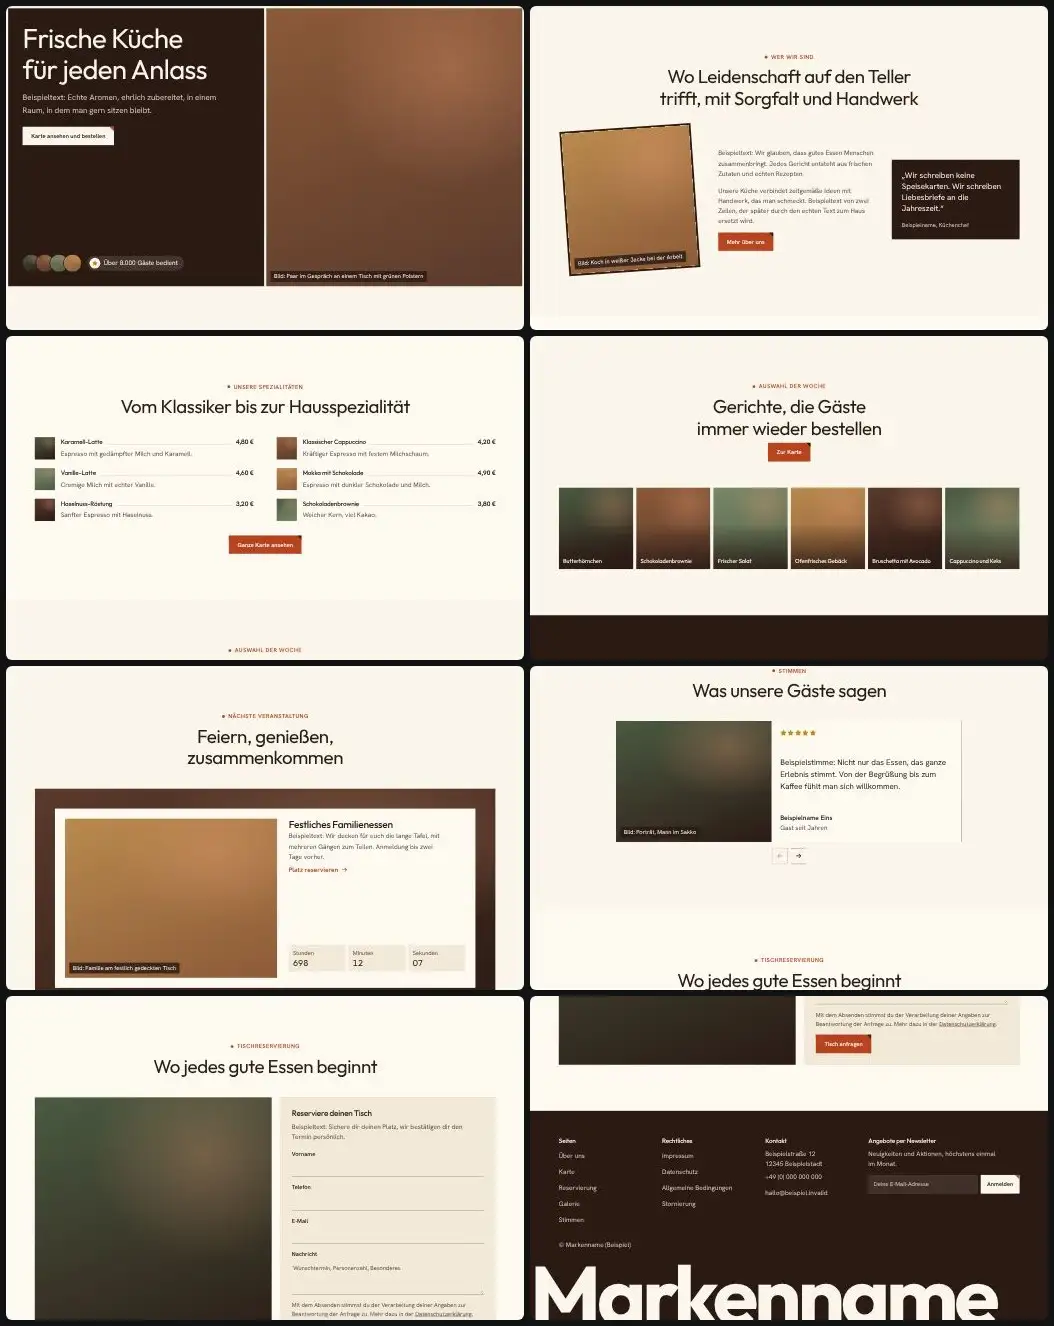
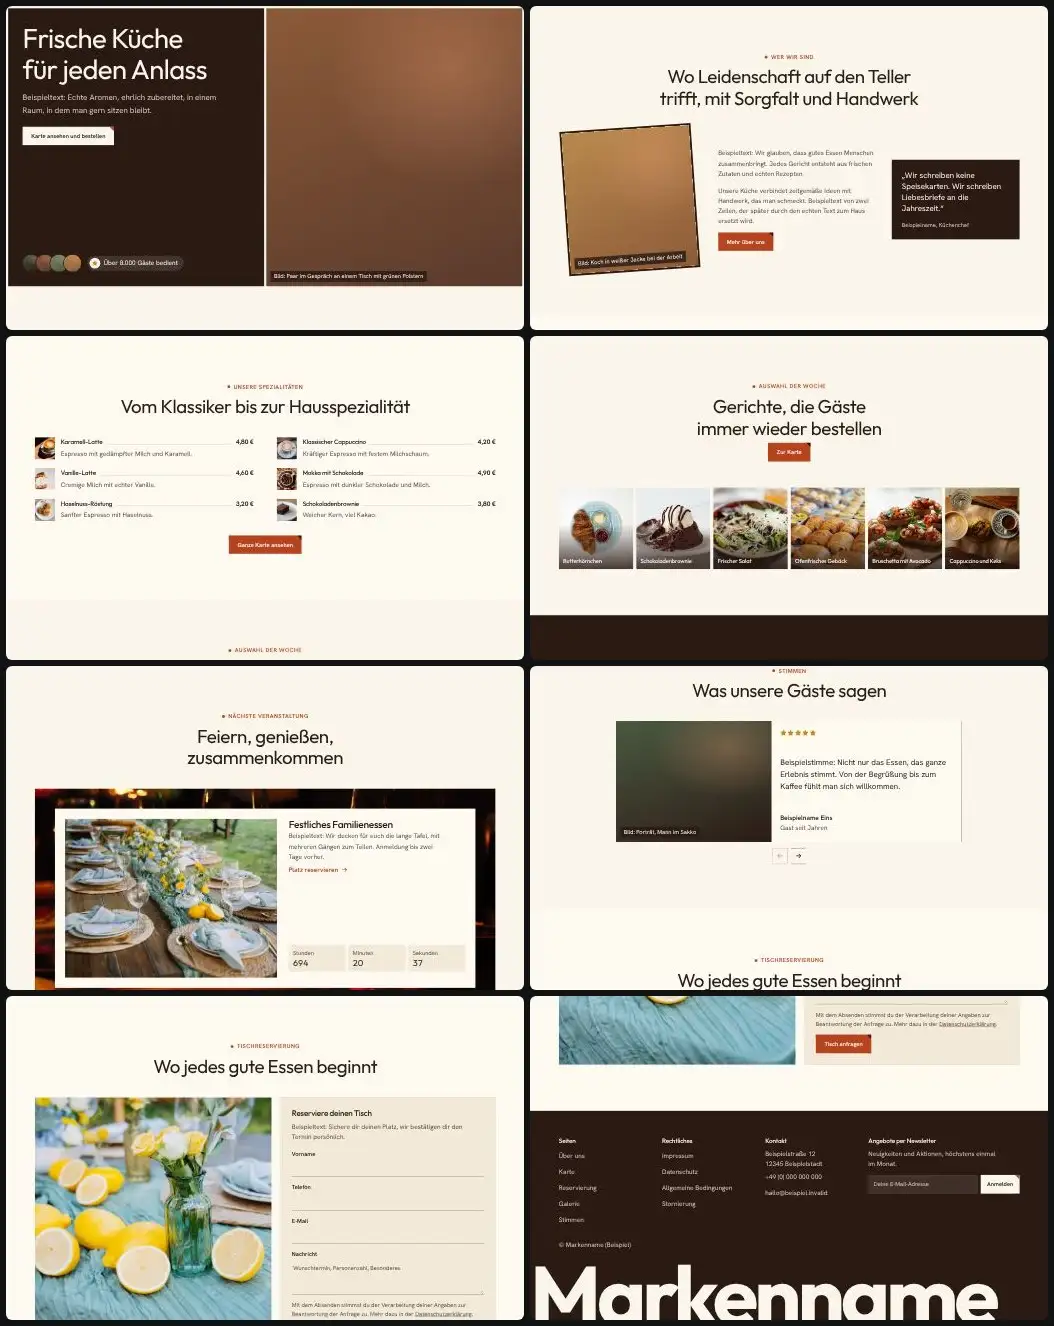
Bibliothek t35: Beispielfotos (Unsplash) eingebaut, Vorschaubilder neu erzeugt
Claude-Session: https://claude.ai/code/session_01DoGuL1bwF3ewggMgZ4Cpvd

diff --git a/skills/webdesign-conversion/assets/vorlagen/bibliothek/t35/index.html b/skills/webdesign-conversion/assets/vorlagen/bibliothek/t35/index.html
@@ -82,12 +82,12 @@
       <h2 id="h-karte" data-zeig>Vom Klassiker bis zur Hausspezialität</h2>
     </header>
     <ul class="posten-liste" data-staffel data-beispiel>
-      <li class="posten" data-zeig><div class="bild bild--a" data-platzhalter="Bild: Tasse mit Latte" aria-hidden="true"></div><div><div class="posten__kopf"><h3>Karamell-Latte</h3><span class="posten__linie" aria-hidden="true"></span><span class="posten__preis">4,80 €</span></div><p>Espresso mit gedämpfter Milch und Karamell.</p></div></li>
-      <li class="posten" data-zeig><div class="bild bild--b" data-platzhalter="Bild: Tasse Cappuccino" aria-hidden="true"></div><div><div class="posten__kopf"><h3>Klassischer Cappuccino</h3><span class="posten__linie" aria-hidden="true"></span><span class="posten__preis">4,20 €</span></div><p>Kräftiger Espresso mit festem Milchschaum.</p></div></li>
-      <li class="posten" data-zeig><div class="bild bild--c" data-platzhalter="Bild: Gebäck mit Vanille" aria-hidden="true"></div><div><div class="posten__kopf"><h3>Vanille-Latte</h3><span class="posten__linie" aria-hidden="true"></span><span class="posten__preis">4,60 €</span></div><p>Cremige Milch mit echter Vanille.</p></div></li>
-      <li class="posten" data-zeig><div class="bild bild--d" data-platzhalter="Bild: Schale mit Mokka" aria-hidden="true"></div><div><div class="posten__kopf"><h3>Mokka mit Schokolade</h3><span class="posten__linie" aria-hidden="true"></span><span class="posten__preis">4,90 €</span></div><p>Espresso mit dunkler Schokolade und Milch.</p></div></li>
-      <li class="posten" data-zeig><div class="bild bild--e" data-platzhalter="Bild: Kekse mit Nüssen" aria-hidden="true"></div><div><div class="posten__kopf"><h3>Haselnuss-Röstung</h3><span class="posten__linie" aria-hidden="true"></span><span class="posten__preis">3,20 €</span></div><p>Sanfter Espresso mit Haselnuss.</p></div></li>
-      <li class="posten" data-zeig><div class="bild bild--f" data-platzhalter="Bild: Brownie auf dem Teller" aria-hidden="true"></div><div><div class="posten__kopf"><h3>Schokoladenbrownie</h3><span class="posten__linie" aria-hidden="true"></span><span class="posten__preis">3,80 €</span></div><p>Weicher Kern, viel Kakao.</p></div></li>
+      <li class="posten" data-zeig><div class="bild bild--a"><img src="bilder/latte-art-auf-untertasse.webp" width="800" height="533" alt="Tasse Latte mit Schaummuster auf einer Untertasse" loading="lazy" decoding="async"></div><div><div class="posten__kopf"><h3>Karamell-Latte</h3><span class="posten__linie" aria-hidden="true"></span><span class="posten__preis">4,80 €</span></div><p>Espresso mit gedämpfter Milch und Karamell.</p></div></li>
+      <li class="posten" data-zeig><div class="bild bild--b"><img src="bilder/cappuccino-auf-holztisch.webp" width="800" height="533" alt="Cappuccino auf einer Untertasse auf einem Holztisch" loading="lazy" decoding="async"></div><div><div class="posten__kopf"><h3>Klassischer Cappuccino</h3><span class="posten__linie" aria-hidden="true"></span><span class="posten__preis">4,20 €</span></div><p>Kräftiger Espresso mit festem Milchschaum.</p></div></li>
+      <li class="posten" data-zeig><div class="bild bild--c"><img src="bilder/windbeutel-mit-sahne.webp" width="800" height="533" alt="Windbeutel mit Sahne und Karamell" loading="lazy" decoding="async"></div><div><div class="posten__kopf"><h3>Vanille-Latte</h3><span class="posten__linie" aria-hidden="true"></span><span class="posten__preis">4,60 €</span></div><p>Cremige Milch mit echter Vanille.</p></div></li>
+      <li class="posten" data-zeig><div class="bild bild--d"><img src="bilder/tasse-mit-kaffeebohnen.webp" width="800" height="552" alt="Tasse und Untertasse voller Kaffeebohnen" loading="lazy" decoding="async"></div><div><div class="posten__kopf"><h3>Mokka mit Schokolade</h3><span class="posten__linie" aria-hidden="true"></span><span class="posten__preis">4,90 €</span></div><p>Espresso mit dunkler Schokolade und Milch.</p></div></li>
+      <li class="posten" data-zeig><div class="bild bild--e"><img src="bilder/drei-kekse-auf-teller.webp" width="800" height="533" alt="Drei Kekse mit Nüssen auf einem weißen Teller" loading="lazy" decoding="async"></div><div><div class="posten__kopf"><h3>Haselnuss-Röstung</h3><span class="posten__linie" aria-hidden="true"></span><span class="posten__preis">3,20 €</span></div><p>Sanfter Espresso mit Haselnuss.</p></div></li>
+      <li class="posten" data-zeig><div class="bild bild--f"><img src="bilder/brownie-auf-weissem-teller.webp" width="800" height="533" alt="Schokoladenbrownie auf einem weißen Teller" loading="lazy" decoding="async"></div><div><div class="posten__kopf"><h3>Schokoladenbrownie</h3><span class="posten__linie" aria-hidden="true"></span><span class="posten__preis">3,80 €</span></div><p>Weicher Kern, viel Kakao.</p></div></li>
     </ul>
     <p class="menue__fuss"><a class="knopf" href="#tisch">Ganze Karte ansehen</a></p>
   </div>
@@ -101,12 +101,12 @@
       <a class="knopf spezial__knopf" href="#tisch" data-zeig>Zur Karte</a>
     </header>
     <ul class="kacheln" data-staffel>
-      <li class="kachel" data-zeig><div class="bild bild--a" data-platzhalter="Bild: Hörnchen mit Butter" aria-hidden="true"></div><h3>Butterhörnchen</h3></li>
-      <li class="kachel" data-zeig><div class="bild bild--b" data-platzhalter="Bild: Brownie mit Eis" aria-hidden="true"></div><h3>Schokoladenbrownie</h3></li>
-      <li class="kachel" data-zeig><div class="bild bild--c" data-platzhalter="Bild: Salatschale" aria-hidden="true"></div><h3>Frischer Salat</h3></li>
-      <li class="kachel" data-zeig><div class="bild bild--d" data-platzhalter="Bild: Gebäck auf dem Blech" aria-hidden="true"></div><h3>Ofenfrisches Gebäck</h3></li>
-      <li class="kachel" data-zeig><div class="bild bild--e" data-platzhalter="Bild: Bruschetta mit Öl" aria-hidden="true"></div><h3>Bruschetta mit Avocado</h3></li>
-      <li class="kachel" data-zeig><div class="bild bild--f" data-platzhalter="Bild: Tasse mit Keks" aria-hidden="true"></div><h3>Cappuccino und Keks</h3></li>
+      <li class="kachel" data-zeig><div class="bild bild--a"><img src="bilder/croissant-mit-butter-und-marmelade.webp" width="800" height="533" alt="Croissant mit Butter und Marmelade auf einem Teller" loading="lazy" decoding="async"></div><h3>Butterhörnchen</h3></li>
+      <li class="kachel" data-zeig><div class="bild bild--b"><img src="bilder/schokokuchen-mit-eis.webp" width="800" height="534" alt="Schokoladenkuchen mit Eiskugel und Soße" loading="lazy" decoding="async"></div><h3>Schokoladenbrownie</h3></li>
+      <li class="kachel" data-zeig><div class="bild bild--c"><img src="bilder/salat-in-rustikaler-schale.webp" width="800" height="534" alt="Frischer Salat mit Sprossen in einer Schale" loading="lazy" decoding="async"></div><h3>Frischer Salat</h3></li>
+      <li class="kachel" data-zeig><div class="bild bild--d"><img src="bilder/gebaeck-auf-dem-blech.webp" width="800" height="533" alt="Frisches Gebäck auf dem Blech" loading="lazy" decoding="async"></div><h3>Ofenfrisches Gebäck</h3></li>
+      <li class="kachel" data-zeig><div class="bild bild--e"><img src="bilder/bruschetta-auf-holzbrett.webp" width="800" height="533" alt="Bruschetta mit Tomaten und Basilikum auf einem Holzbrett" loading="lazy" decoding="async"></div><h3>Bruschetta mit Avocado</h3></li>
+      <li class="kachel" data-zeig><div class="bild bild--f"><img src="bilder/kaffee-und-keks-auf-tablett.webp" width="800" height="640" alt="Kaffee mit Schaumherz, Keks und Wasser auf einem Tablett" loading="lazy" decoding="async"></div><h3>Cappuccino und Keks</h3></li>
     </ul>
   </div>
 </section>
@@ -118,20 +118,20 @@
   </header>
   <div class="band" aria-label="Bilder aus dem Haus">
     <div class="band__spur">
-      <div class="bild bild--a" data-platzhalter="Bild: Dessert im Glas" aria-hidden="true"></div>
-      <div class="bild bild--b" data-platzhalter="Bild: Teller mit Gebäck" aria-hidden="true"></div>
-      <div class="bild bild--c" data-platzhalter="Bild: Schale mit Kuchen" aria-hidden="true"></div>
-      <div class="bild bild--d" data-platzhalter="Bild: Torte mit Frucht" aria-hidden="true"></div>
-      <div class="bild bild--e" data-platzhalter="Bild: Cappuccino mit Muster" aria-hidden="true"></div>
-      <div class="bild bild--f" data-platzhalter="Bild: Brötchen mit Körnern" aria-hidden="true"></div>
+      <div class="bild bild--a"><img src="bilder/schokomousse-im-glas.webp" width="800" height="533" alt="Schokomousse mit Erdbeere im Glas" loading="lazy" decoding="async"></div>
+      <div class="bild bild--b"><img src="bilder/gebaeck-auf-glasteller.webp" width="800" height="532" alt="Gebäck mit Beeren auf einem Glasteller" loading="lazy" decoding="async"></div>
+      <div class="bild bild--c"><img src="bilder/kaesekuchen-mit-heidelbeeren.webp" width="800" height="533" alt="Stück Käsekuchen mit Heidelbeeren" loading="lazy" decoding="async"></div>
+      <div class="bild bild--d"><img src="bilder/obsttarte-mit-beeren.webp" width="800" height="533" alt="Obsttarte mit Beeren und Kiwi" loading="lazy" decoding="async"></div>
+      <div class="bild bild--e"><img src="bilder/cappuccino-von-oben-rot.webp" width="800" height="528" alt="Cappuccino mit Milchschaummuster von oben" loading="lazy" decoding="async"></div>
+      <div class="bild bild--f"><img src="bilder/broetchen-mit-sesam.webp" width="800" height="533" alt="Brötchen mit Sesam" loading="lazy" decoding="async"></div>
     </div>
     <div class="band__spur" aria-hidden="true">
-      <div class="bild bild--a" data-platzhalter="Bild: Dessert im Glas" aria-hidden="true"></div>
-      <div class="bild bild--b" data-platzhalter="Bild: Teller mit Gebäck" aria-hidden="true"></div>
-      <div class="bild bild--c" data-platzhalter="Bild: Schale mit Kuchen" aria-hidden="true"></div>
-      <div class="bild bild--d" data-platzhalter="Bild: Torte mit Frucht" aria-hidden="true"></div>
-      <div class="bild bild--e" data-platzhalter="Bild: Cappuccino mit Muster" aria-hidden="true"></div>
-      <div class="bild bild--f" data-platzhalter="Bild: Brötchen mit Körnern" aria-hidden="true"></div>
+      <div class="bild bild--a" aria-hidden="true"><img src="bilder/schokomousse-im-glas.webp" width="800" height="533" alt="" loading="lazy" decoding="async"></div>
+      <div class="bild bild--b" aria-hidden="true"><img src="bilder/gebaeck-auf-glasteller.webp" width="800" height="532" alt="" loading="lazy" decoding="async"></div>
+      <div class="bild bild--c" aria-hidden="true"><img src="bilder/kaesekuchen-mit-heidelbeeren.webp" width="800" height="533" alt="" loading="lazy" decoding="async"></div>
+      <div class="bild bild--d" aria-hidden="true"><img src="bilder/obsttarte-mit-beeren.webp" width="800" height="533" alt="" loading="lazy" decoding="async"></div>
+      <div class="bild bild--e" aria-hidden="true"><img src="bilder/cappuccino-von-oben-rot.webp" width="800" height="528" alt="" loading="lazy" decoding="async"></div>
+      <div class="bild bild--f" aria-hidden="true"><img src="bilder/broetchen-mit-sesam.webp" width="800" height="533" alt="" loading="lazy" decoding="async"></div>
     </div>
   </div>
 </section>
@@ -143,9 +143,9 @@
       <h2 id="h-ereignis" data-zeig>Feiern, genießen, zusammenkommen</h2>
     </header>
     <div class="ereignis__buehne" data-zeig>
-      <div class="bild ereignis__grund bild--e" data-platzhalter="Bild: Anstoßende Gläser im Kerzenlicht" aria-hidden="true"></div>
+      <div class="bild ereignis__grund bild--e"><img src="bilder/glaeser-und-kerzen-am-abend.webp" width="1600" height="1067" alt="Weingläser und Kerzen auf einem Tisch am Abend" loading="lazy" decoding="async"></div>
       <div class="ereignis__karte">
-        <div class="bild ereignis__bild bild--d" data-platzhalter="Bild: Familie am festlich gedeckten Tisch" role="img" aria-label="Platzhalter für ein Foto: Familie am festlich gedeckten Tisch"></div>
+        <div class="bild ereignis__bild bild--d"><img src="bilder/lange-tafel-im-garten.webp" width="1000" height="667" alt="Lange Tafel im Garten mit Blumen und Gedecken" loading="lazy" decoding="async"></div>
         <div class="ereignis__text" data-beispiel>
           <div>
             <h3>Festliches Familienessen</h3>
@@ -190,7 +190,7 @@
       <h2 id="h-tisch" data-zeig>Wo jedes gute Essen beginnt</h2>
     </header>
     <div class="tisch__raster">
-      <div class="bild tisch__bild bild--a" data-platzhalter="Bild: Frau deckt einen Tisch mit Zitronen" role="img" aria-label="Platzhalter für ein Foto: Frau deckt einen Tisch mit Zitronen" data-zeig="links"></div>
+      <div class="bild tisch__bild bild--a" data-zeig="links"><img src="bilder/tisch-mit-zitronen-und-blumen.webp" width="1000" height="667" alt="Tisch mit Zitronen und gelben Blüten" loading="lazy" decoding="async"></div>
       <div class="formular-karte" data-zeig="rechts">
         <h3>Reserviere deinen Tisch</h3>
         <p>Beispieltext: Sichere dir deinen Platz, wir bestätigen dir den Termin persönlich.</p>

diff --git a/skills/webdesign-conversion/assets/vorlagen/bibliothek/t35/BILDER.md b/skills/webdesign-conversion/assets/vorlagen/bibliothek/t35/BILDER.md
@@ -1,0 +1,39 @@
+# Bilder t35
+
+Alle Fotos von Unsplash, abgerufen am 25.11.2026. Titel und Lizenz stehen so auf der Seite des Fotos (Titel von Unsplash automatisch vergeben), als Fotograf ist das Unsplash Profil angegeben, weil die Seite den Namen nur als Profillink zeigte. Lizenz ist jeweils die Unsplash Lizenz.
+
+| Datei | Platz | Foto Titel | Fotograf (Profil) | Seite | Lizenz | Abruf |
+|---|---|---|---|---|---|---|
+| latte-art-auf-untertasse.webp | Karte, Latte | Latte Art auf einer Tasse Kaffee | @unidentifieduser | https://unsplash.com/photos/pDv725jVfvI | Unsplash Lizenz | 25.11.2026 |
+| cappuccino-auf-holztisch.webp | Karte, Cappuccino | Ein Cappuccino auf einer Untertasse auf einem Holztisch | @palocko | https://unsplash.com/photos/5vH8d_X2FXM | Unsplash Lizenz | 25.11.2026 |
+| windbeutel-mit-sahne.webp | Karte, Gebäck mit Vanille | Schwarzbrot mit weißer Sahne oben drauf | @glencarrie | https://unsplash.com/photos/JnbuHBHHs2M | Unsplash Lizenz | 25.11.2026 |
+| tasse-mit-kaffeebohnen.webp | Karte, Mokka | Kaffeebohnen füllen eine Tasse und eine Untertasse | @americanaez225 | https://unsplash.com/photos/NUIkIM68dVU | Unsplash Lizenz | 25.11.2026 |
+| drei-kekse-auf-teller.webp | Karte, Kekse | ein weißer Teller mit drei Keksen auf einem Tisch | @vdphotography | https://unsplash.com/photos/pSIyX4rNwxc | Unsplash Lizenz | 25.11.2026 |
+| brownie-auf-weissem-teller.webp | Karte, Brownie | Ein reichhaltiger Schokoladenbrownie auf einem weißen Teller | @arwen42 | https://unsplash.com/photos/yBNwcGFDqBk | Unsplash Lizenz | 25.11.2026 |
+| croissant-mit-butter-und-marmelade.webp | Auswahl der Woche, Hörnchen | ein Croissant und Marmelade auf einem Teller | @jogaway | https://unsplash.com/photos/jm86nvm6JkY | Unsplash Lizenz | 25.11.2026 |
+| schokokuchen-mit-eis.webp | Auswahl der Woche, Brownie mit Eis | ein weißer Teller mit einem Stück Kuchen und Eis | @americanheritagechocolate | https://unsplash.com/photos/8lPKzLSWNgM | Unsplash Lizenz | 25.11.2026 |
+| salat-in-rustikaler-schale.webp | Auswahl der Woche, Salat | Frischer Salat in einer rustikalen Schüssel mit Sprossen | @janesca | https://unsplash.com/photos/HDvVQJNSq9Y | Unsplash Lizenz | 25.11.2026 |
+| gebaeck-auf-dem-blech.webp | Auswahl der Woche, Gebäck | Nahaufnahme von gebackenen Leckereien auf dem Tablett | @minkmingle | https://unsplash.com/photos/qZ5lPCPvdXE | Unsplash Lizenz | 25.11.2026 |
+| bruschetta-auf-holzbrett.webp | Auswahl der Woche, Bruschetta | in Scheiben geschnittene Tomaten und grünes Gemüse auf braunem Holzschneidebrett (gekürzt) | @konstantinas | https://unsplash.com/photos/86vIY4SPr6A | Unsplash Lizenz | 25.11.2026 |
+| kaffee-und-keks-auf-tablett.webp | Auswahl der Woche, Tasse mit Keks | Kaffee, Kekse und Wasser auf einem Holztablett | @shegiva | https://unsplash.com/photos/TscMgDwxjpY | Unsplash Lizenz | 25.11.2026 |
+| schokomousse-im-glas.webp | Galerie, Dessert im Glas | ein rot-schwarzes Dessert | @plate_stories_tsi | https://unsplash.com/photos/QiAVFU8WCUQ | Unsplash Lizenz | 25.11.2026 |
+| gebaeck-auf-glasteller.webp | Galerie, Teller mit Gebäck | ein Teller Dessert | @veradavidovaphotography | https://unsplash.com/photos/Hup5sLztQsM | Unsplash Lizenz | 25.11.2026 |
+| kaesekuchen-mit-heidelbeeren.webp | Galerie, Schale mit Kuchen | Blaubeer-Käsekuchen-Kuchen auf weißem Keramikteller in Scheiben (gekürzt) | @minkmingle | https://unsplash.com/photos/LGNxQzYmeUk | Unsplash Lizenz | 25.11.2026 |
+| obsttarte-mit-beeren.webp | Galerie, Torte mit Frucht | Nahaufnahme eines Obsttellers auf einem Tisch | @anacristinacanana | https://unsplash.com/photos/Nt5yMC7HaHE | Unsplash Lizenz | 25.11.2026 |
+| cappuccino-von-oben-rot.webp | Galerie, Cappuccino mit Muster | eine Tasse Kaffee mit einem Wirbel darin | @hlandkammer | https://unsplash.com/photos/Hvehlz3P2BE | Unsplash Lizenz | 25.11.2026 |
+| broetchen-mit-sesam.webp | Galerie, Brötchen | Schwarzbrot auf grünem Teller | @carlevarino | https://unsplash.com/photos/f5NwIK49WDM | Unsplash Lizenz | 25.11.2026 |
+| glaeser-und-kerzen-am-abend.webp | Ereignis, Hintergrund | Kerzen und Weingläser auf einem Tisch an einem schwach beleuchteten Ort (gekürzt) | @raulmermans | https://unsplash.com/photos/3J689M7eWAc | Unsplash Lizenz | 25.11.2026 |
+| lange-tafel-im-garten.webp | Ereignis, Bild (Familie am Tisch) | Tischdekoration für den Außenbereich mit floralem Tafelaufsatz (gekürzt) | @itsbrunoagain | https://unsplash.com/photos/h6dodyNh95c | Unsplash Lizenz | 25.11.2026 |
+| tisch-mit-zitronen-und-blumen.webp | Tischreservierung | Zitronen und gelbe Blüten auf einer türkisfarbenen Tischdecke (gekürzt) | @itsbrunoagain | https://unsplash.com/photos/OhyYlHZhcVs | Unsplash Lizenz | 25.11.2026 |
+
+## Hinweise
+
+* Titel von Unsplash sind teils unpassend (zum Beispiel Schwarzbrot für Windbeutel und Brötchen), die Alt Texte beschreiben, was im Bild zu sehen ist.
+* Beschriftungen im Text und Bild passen nicht überall genau (Bruschetta mit Avocado hat ein Foto mit Tomaten, Hörnchen und Windbeutel sind frei gewählt); vor Abgabe angleichen.
+* Zweite Galerie Spur (aria-hidden) trägt alt leer und dieselben Bilder.
+* Der Überlauf von 402 Pixeln bei 390 Pixel Breite kommt vom Zitat und vom Laufband und besteht ohne Fotos genauso.
+* Alle Bilder sind Beispielfotos und vor Abgabe zu ersetzen.
+
+## Offen
+
+* Porträts der Gäste (Zitat Wechsel, vier Plätze), Paar im Gespräch (Held), Koch in weißer Jacke, Porträts Team (drei Plätze): bewusst offen, keine echten Personen als Gäste oder Team.
